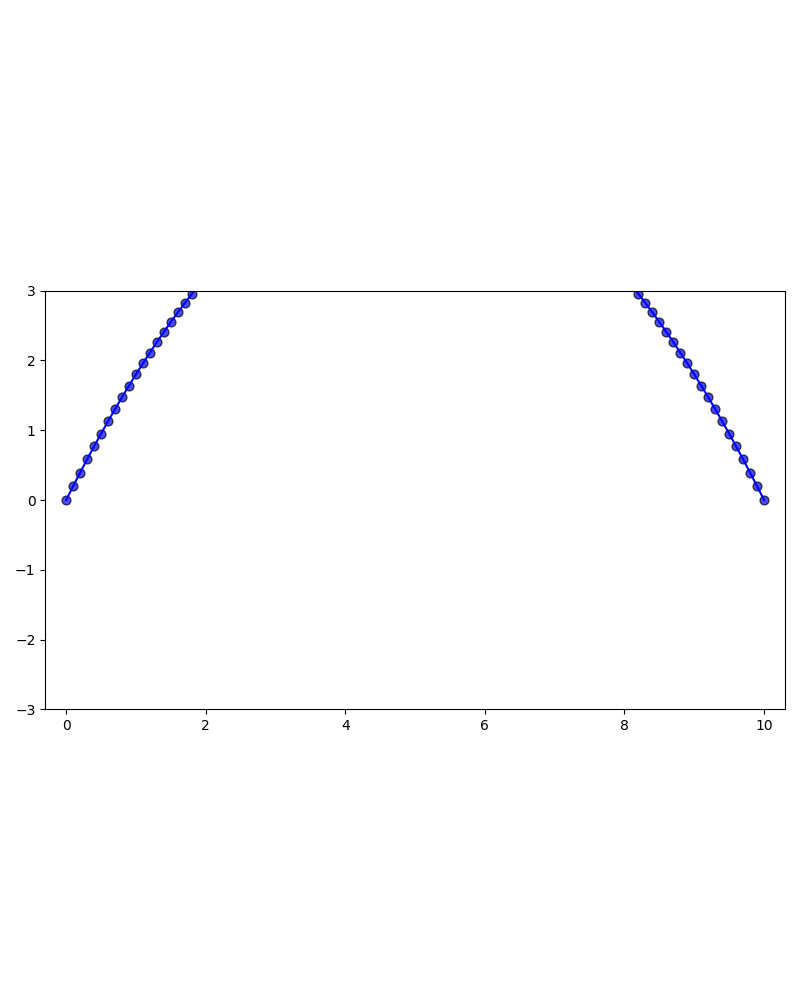
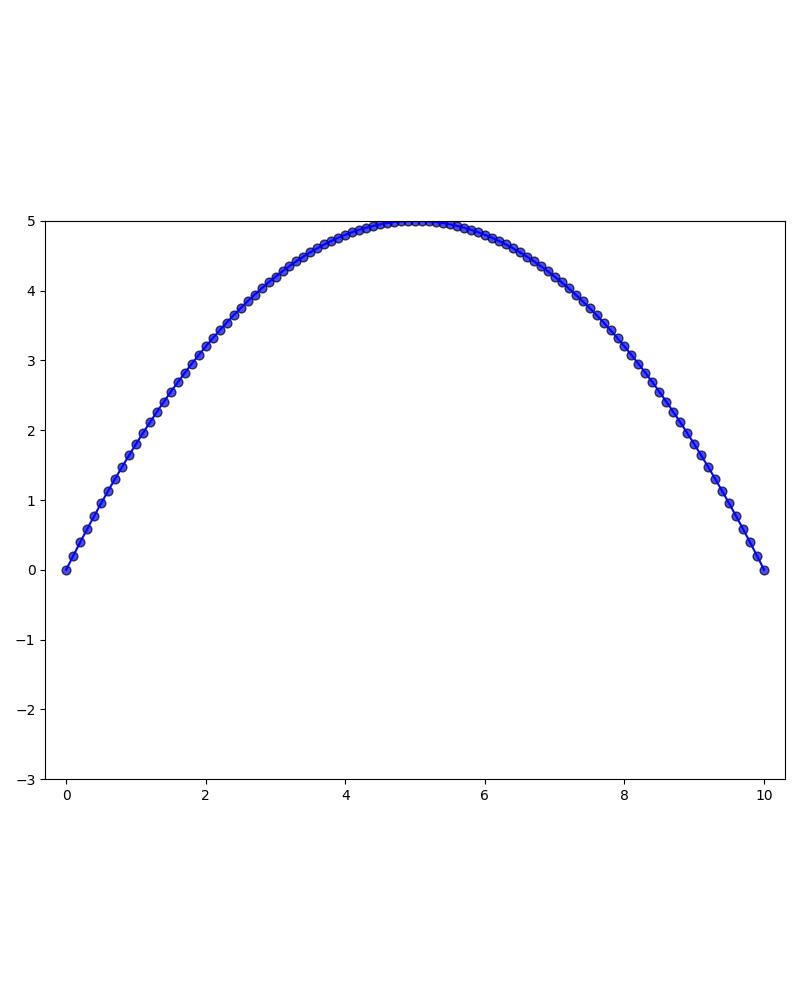
correct but not practical version

diff --git a/play.py b/play.py
@@ -1,0 +1,70 @@
+import numpy as np
+import matplotlib.pyplot as plt
+from autograd import grad
+
+def Y(x):
+    y = x**3
+    return y
+
+def K(x):
+    k = 3*x**2
+    # k = 1-1/x**2
+    return k
+
+def arc(start_x, s, y_max, steps):
+    xs = [start_x]
+    las = [0]
+    for i in range(steps):
+        x = xs[i]
+        la = las[i]
+        k = K(x)
+
+        dx = y_max/k
+        dL = s/(dx**2 + 1)**0.5
+        dx = dL*y_max/k
+        la += dL
+        x += dx
+
+        R = la*y_max-Y(x)
+        iter = 0
+
+        while abs(R) > 1e-7:
+            iter += 1
+            if i != 0 and iter == 1:
+                if np.dot(np.array([xs[i]-xs[i-1], las[i]-las[i-1]]), np.array([dx, dL])) < 0:
+                    dL = -dL
+                    dx = -dx
+                    la += 2* dL
+                    x += 2*dx
+
+            print(f"Step {i+1}; iteration {iter}")
+            k = K(x)
+
+            Kr = R/k
+            Kf = y_max/k
+            a = y_max**2+Kf**2
+            b = 2*((la-las[i])*y_max**2+Kf*(Kr+x-xs[i]))
+            c = Kr*(Kr+2*(x-xs[i]))
+            roots = np.roots([a, b, c])
+            dL = roots[np.argmin(abs(roots))]
+
+            la += dL
+            R = la*y_max - Y(x)
+            dx = R*y_max/k
+            x += dx
+            R = la*y_max - Y(x)
+
+        xs.append(x)
+        las.append(la)
+
+    return xs, las
+
+if __name__ == "__main__":
+   y_max = 5
+   s = 0.01
+   start_x = 0.01
+   steps = 20
+   x, la = arc(start_x, s, y_max, steps)
+   plt.plot(x, [l*y_max for l in la])
+   plt.show()
+

diff --git a/test.py b/test.py
@@ -4,13 +4,12 @@ import os
 import matplotlib.pyplot as plt
 
 model_names = ["0.1", "0.3", "0.5"]
-steps = [25000, 70000, 150000]
-ss = [0.0005, 0.0005, 0.0005]
+
 for model_name in model_names:
     input_path = os.path.join(os.getcwd(), "input", f"{model_name}.txt")
     model = reader.readFile(input_path)
     # output = model.iterate()
-    output, la, F, u = model.arc_length_method(steps=steps[model_names.index(model_name)], s=ss[model_names.index(model_name)], max_p_detect=False)
+    output, la, F, u = model.arc_length_method(steps=25000, s=0.0005, max_p_detect=False)
 
     output_path = os.path.join(os.getcwd(), "output", f"{model_name}", f"{model_name}.txt")
     if not os.path.exists(os.path.dirname(output_path)):

diff --git a/mylib/type.py b/mylib/type.py
@@ -479,11 +479,11 @@ class GeoNonlinear: # 几何非线性
                     c = (np.matmul(Kr.T, (Kr+2*x)))[0][0]
 
                     roots = np.roots([a, b, c])
-                    dL = roots[np.argmin(abs(roots))].real  # 选择最小的根
+                    dL = roots[np.argmin(abs(roots))]  # 选择最小的根
                     
                     # endregion
 
-                    la_step -= dL
+                    la_step += dL
                     R_step = la_step * self.Pe - F_step
                     for c in self.cl:
                         R_step[c] = 0
